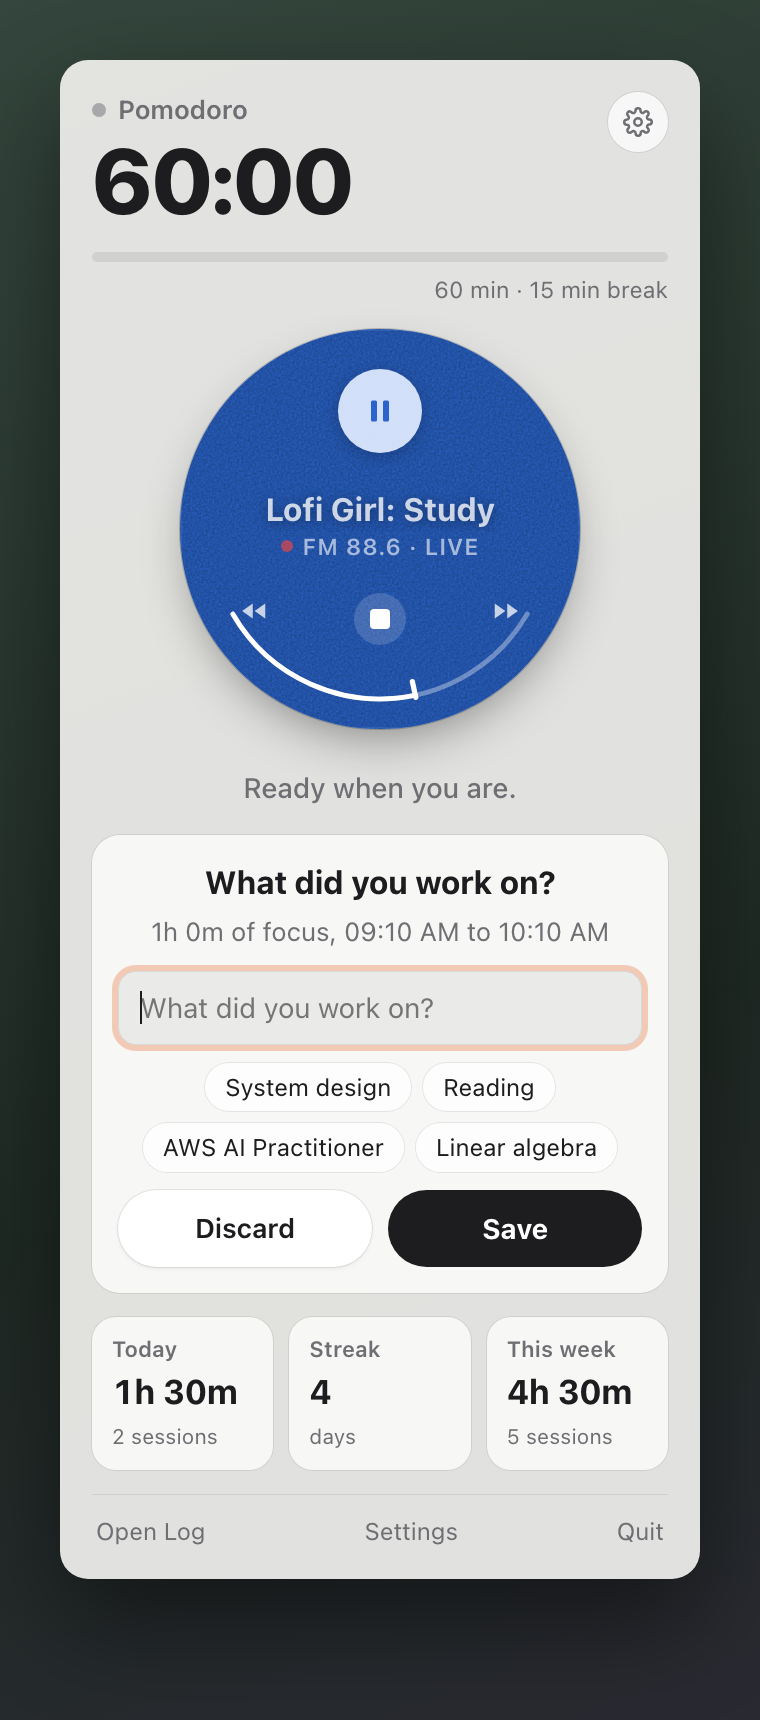
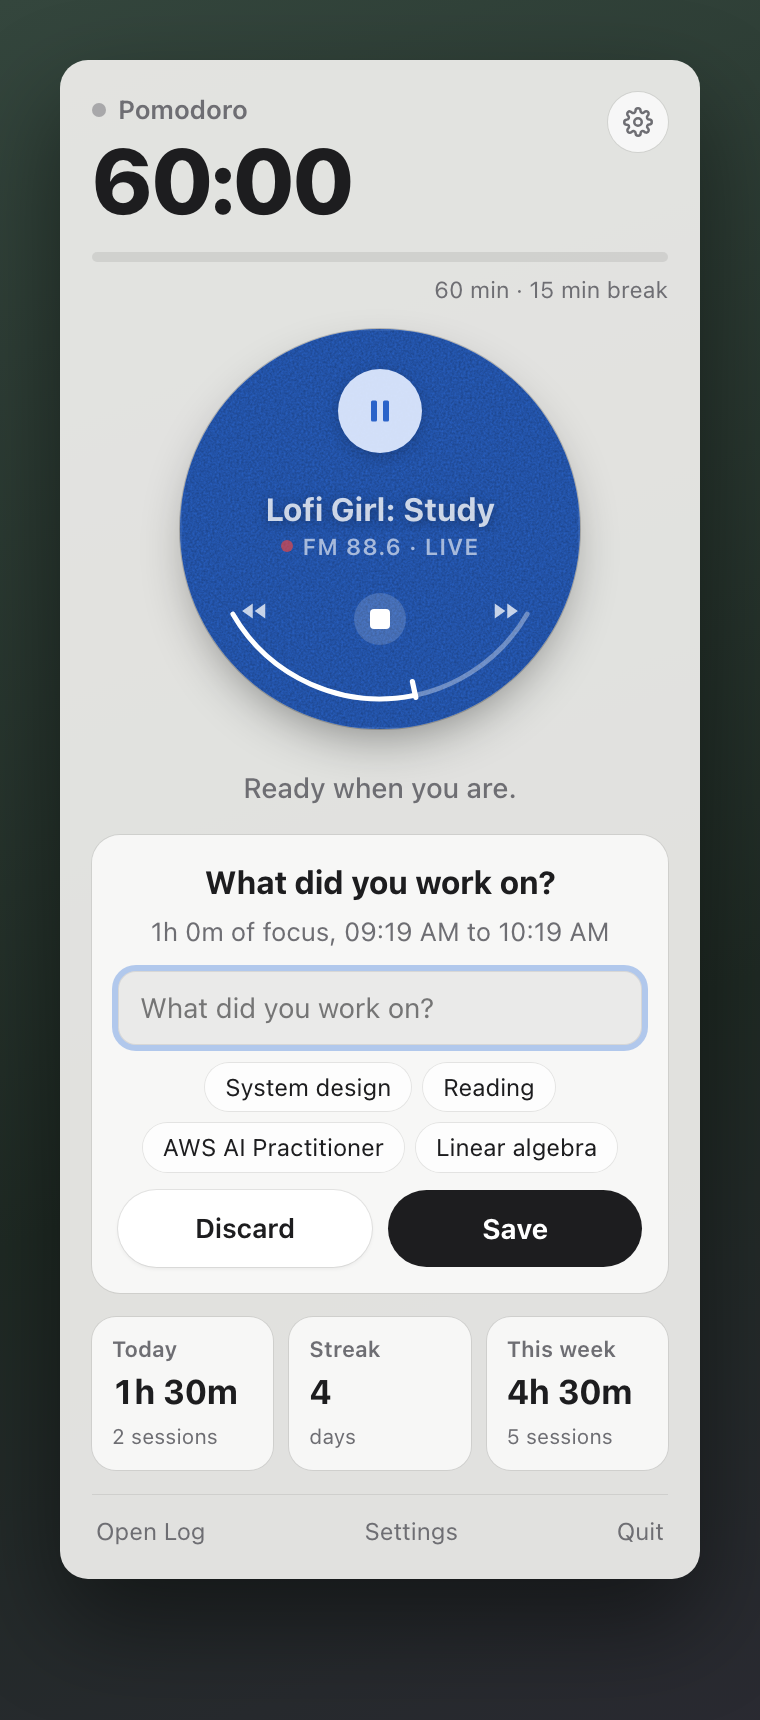
Blue focus accent, teal breaks, notifications as Alerts
- The panel's status dot and progress bar are blue while focusing and
  teal on breaks.
- Info.plist asks for the Alerts notification style, so the idle nudge
  stays on screen until answered (on new installs; existing installs
  change it in System Settings). Version 2.5.

Changed region(s): [[0.1513, 0.5547, 0.8474, 0.6163]]

diff --git a/src/panel.html b/src/panel.html
@@ -5,8 +5,8 @@
 <meta name="viewport" content="width=device-width, initial-scale=1">
 <title>Focus MN</title>
 <style>
-:root{--ink:#1d1d1f;--muted:#6e6e73;--card:rgba(255,255,255,.72);--line:rgba(0,0,0,.08);--btn:#1d1d1f;--btnInk:#fff;--btn2:#fff;--accent:#e8743b;--break:#0a84ff;--field:rgba(0,0,0,.05)}
-@media (prefers-color-scheme: dark){:root{--ink:#f5f5f7;--muted:#98989d;--card:rgba(255,255,255,.07);--line:rgba(255,255,255,.1);--btn:#f5f5f7;--btnInk:#1d1d1f;--btn2:rgba(255,255,255,.1);--break:#64d2ff;--field:rgba(255,255,255,.08)}}
+:root{--ink:#1d1d1f;--muted:#6e6e73;--card:rgba(255,255,255,.72);--line:rgba(0,0,0,.08);--btn:#1d1d1f;--btnInk:#fff;--btn2:#fff;--accent:#2f6fdb;--break:#1fa99b;--field:rgba(0,0,0,.05)}
+@media (prefers-color-scheme: dark){:root{--ink:#f5f5f7;--muted:#98989d;--card:rgba(255,255,255,.07);--line:rgba(255,255,255,.1);--btn:#f5f5f7;--btnInk:#1d1d1f;--btn2:rgba(255,255,255,.1);--accent:#4a8cff;--break:#3cc9b9;--field:rgba(255,255,255,.08)}}
 *{box-sizing:border-box}
 html,body{margin:0;background:transparent;color:var(--ink);font:13px/1.35 -apple-system,BlinkMacSystemFont,system-ui,sans-serif;-webkit-font-smoothing:antialiased;-webkit-user-select:none;user-select:none;cursor:default}
 button{font:inherit;color:inherit;border:0;background:none;padding:0;cursor:pointer}

diff --git a/README.md b/README.md
@@ -21,7 +21,7 @@ A focus timer and lofi radio that lives in your Mac's menu bar. Click the time i
 - **When a block or break ends** with the panel closed, a banner drops down from the top of the screen with a sound and stays until you answer:
   - *Focus complete:* **Log it** (type the topic right there, then choose a break or another block) or **Keep going** (30 more minutes, logged together).
   - *Break complete:* **Start Focus** or **+5 min**.
-- **A nudge when you're idle:** after 30 minutes with no timer or break running, a macOS notification (with a sound) suggests starting a session. Hover over it and press **Let's start** to start counting up without opening the panel.
+- **A nudge when you're idle:** after 30 minutes with no timer or break running, a macOS notification (with a sound) suggests starting a session. Hover over it and press **Let's start** to start counting up without opening the panel. Notifications use the **Alerts** style, so they stay on screen until you answer; you can change that in System Settings → Notifications → Focus MN.
 - **Fair logging:** a Pomodoro you end early isn't counted, and neither is under a minute of counting up.
 - **Radio:** ten lofi live streams (Lofi Girl, Chillhop and others) in a round player with the live video blurred behind it: play/pause, stop, previous and next, a curved volume line, and a station list when you click the name. It keeps playing when the panel is closed.
 - **Study log:** every counted session is saved with its topic. Recent topics are one click away.
